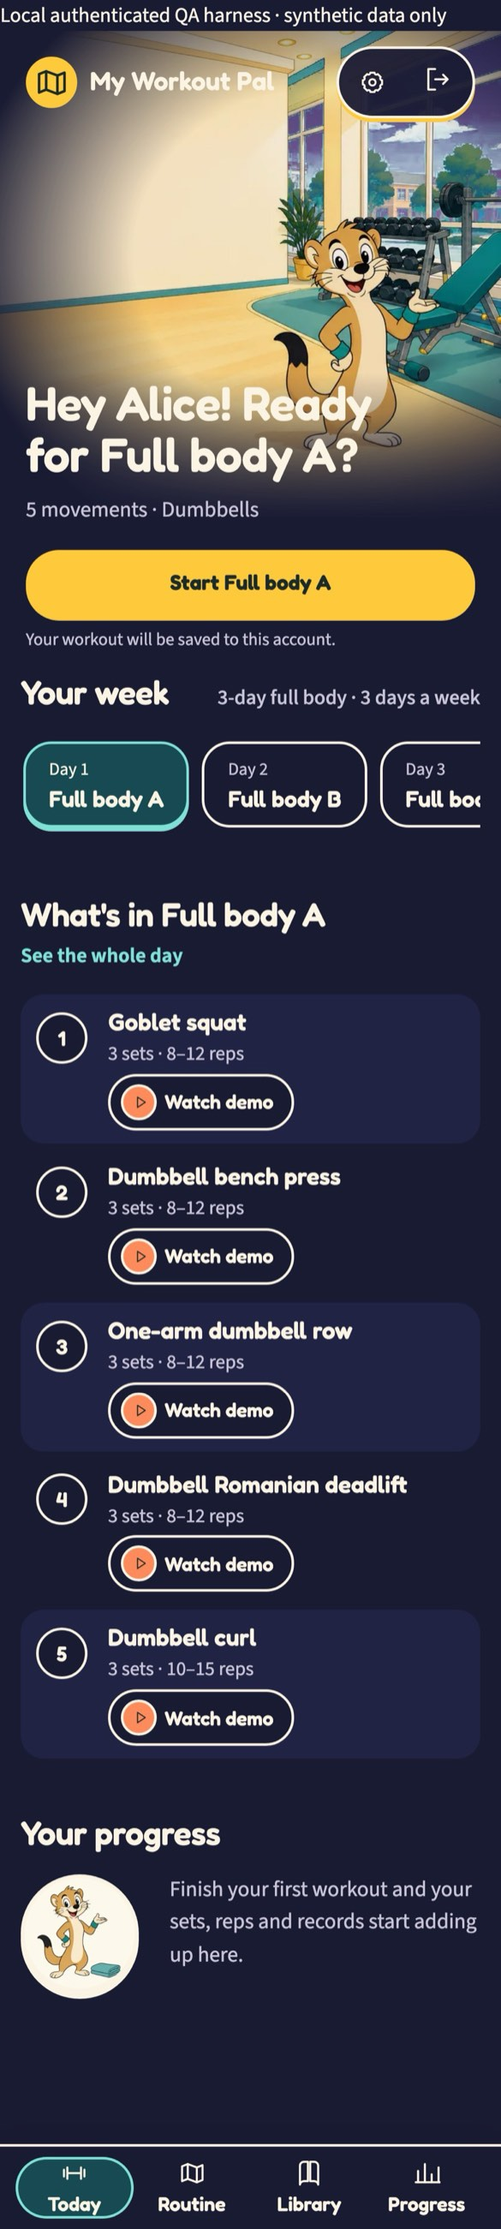
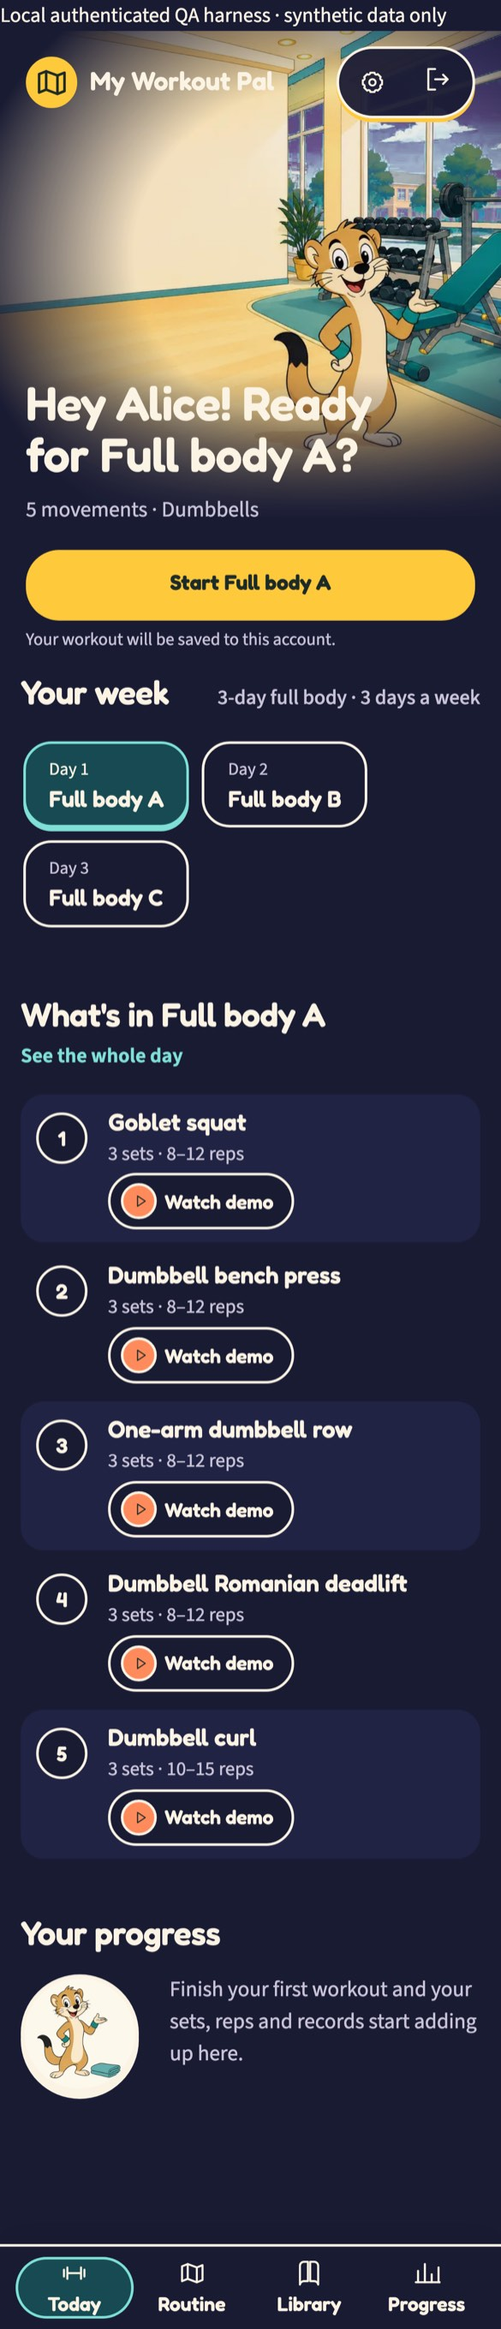
Record owner approval, final gates on 15eb950 and the wrapped day pills

diff --git a/docs/qa/latest/PLAYFUL-OVERHAUL-QA.html b/docs/qa/latest/PLAYFUL-OVERHAUL-QA.html
@@ -3,7 +3,7 @@
 <head>
   <meta charset="utf-8">
   <meta name="viewport" content="width=device-width, initial-scale=1">
[2 lines of base64/hex data omitted]
   <title>Playful companion overhaul: QA report · My Workout Pal docs</title>
   <style>
     :root { color-scheme: light dark; --paper:#f3eee3; --ink:#0d3138; --route:#d95c42; --rule:#a7aa9a; --code:#e6e0d5; }
@@ -28,9 +28,9 @@
 <body>
   <main>
 <h1>Playful companion overhaul: QA report</h1>
-<p>Branch <code>vishal/playful-companion-overhaul</code>, October 5, 2026. This report covers Phase 2 of <a href="../../plans/PLAYFUL-COMPANION-OVERHAUL.html">the overhaul plan</a>: the <em>Studio Pals</em> system on every screen, the new onboarding, the guest test drive, the navigation contract and the dark-mode rework the owner asked for. Nothing is merged or deployed. Merging waits for the owner&#39;s approval of the screenshots below.</p>
+<p>Branch <code>vishal/playful-companion-overhaul</code>, October 5, 2026. This report covers Phase 2 of <a href="../../plans/PLAYFUL-COMPANION-OVERHAUL.html">the overhaul plan</a>: the <em>Studio Pals</em> system on every screen, the new onboarding, the guest test drive, the navigation contract and the dark-mode rework the owner asked for. The owner approved the screenshots below on October 5 and asked for two changes: day pills that wrap and one name per equipment profile. Both are in <code>15eb950</code>, and every gate was rerun on that commit before merging.</p>
 <h2>1. Gates</h2>
-<p>Each gate ran on its own, one heavy process at a time, against application commit <code>9be1dae</code>. Later commits change only Markdown, generated HTML and screenshots.</p>
+<p>Each gate ran on its own, one heavy process at a time, against application commit <code>15eb950</code>. Later commits change only Markdown, generated HTML and screenshots.</p>
 <table>
 <thead>
 <tr>
@@ -47,7 +47,7 @@
 <tr>
 <td>Member browser suite</td>
 <td><code>pnpm test:e2e:authenticated</code></td>
-<td>Exit 0. <code>95 passed (10.8m)</code>, <code>13 skipped</code></td>
+<td>Exit 0. <code>95 passed (10.9m)</code>, <code>13 skipped</code></td>
 </tr>
 <tr>
 <td>Release browser suite</td>
@@ -57,7 +57,7 @@
 <tr>
 <td>Public acceptance (warmed dev server on 3118)</td>
 <td><code>PLAYWRIGHT_BASE_URL=http://127.0.0.1:3118 pnpm exec playwright test production-audit-public --project chromium-phone --project chromium-desktop</code></td>
-<td>Exit 0. <code>12 passed (25.5s)</code></td>
+<td>Exit 0. <code>12 passed (24.0s)</code></td>
 </tr>
 <tr>
 <td>Documentation parity</td>
@@ -70,7 +70,7 @@
 <ul>
 <li>Earlier full member runs on this branch failed while fixes were still landing. Those failures led to the fixes in section 9.</li>
 <li>One failure was <code>library-core-conditioning-expansion.spec.ts</code>, which timed out waiting for an aborted refresh response; see section 9.</li>
-<li>The first final-gate attempt of <code>pnpm verify</code> on <code>9be1dae</code> failed only at <code>docs:check</code>, on a git-ignored local ledger file (<code>docs/qa/runs/ledger-lead.md: HTML counterpart is stale</code>). After rebuilding the docs, the same commit passed <code>pnpm verify</code> as shown above.</li>
+<li>On the previous candidate (<code>9be1dae</code>), the first <code>pnpm verify</code> attempt failed only at <code>docs:check</code>, on a git-ignored local ledger file (<code>docs/qa/runs/ledger-lead.md: HTML counterpart is stale</code>). After rebuilding the docs, that commit passed every gate. The final commit passed every gate on its first run.</li>
 </ul>
 <h2>2. What a first-time visitor sees now</h2>
 <ul>
@@ -83,12 +83,12 @@
 <li>What are you training for?</li>
 <li>How much lifting have you done?</li>
 <li>How many days a week can you train?</li>
-<li>What do you have to work with?</li>
+<li>What do you have to work with? (&quot;Dumbbells&quot; or &quot;Barbell + rack&quot;, the same names as Settings and the editor)</li>
 <li>Here&#39;s your routine.</li>
 </ol>
 <p>The routine is built from the answers by <code>generateStarterRoutine</code> and lists demos that open in place. &quot;Prefer a different start?&quot; offers the five-day example or a blank start. After saving, a four-card tour (Today, logging, demos, progress) can be skipped at any point. Skipping or finishing it moves focus to Today&#39;s heading. Unverified members can answer and preview but not save.</p>
 </li>
-<li><p><strong>Today.</strong> The greeting names the next day (&quot;Hey Alice! Ready for Push?&quot;), followed by one big Start button, the week as day pills, the day&#39;s movements with in-place demos, and the progress glance. The chosen day is kept in the address.</p>
+<li><p><strong>Today.</strong> The greeting names the next day (&quot;Hey Alice! Ready for Push?&quot;), followed by one big Start button, the week as day pills that wrap onto more rows, the day&#39;s movements with in-place demos, and the progress glance. The chosen day is kept in the address.</p>
 </li>
 <li><p><strong>Finishing a workout.</strong> A celebration (&quot;Workout done! Nice work.&quot;) with a &quot;New record!&quot; ribbon when one was set. Focus moves to the heading.</p>
 </li>
@@ -2226,11 +2226,11 @@
 <li><strong>Pre-hydration input.</strong> The owner excluded this issue earlier, and it remains excluded.</li>
 <li><strong>Full-page screenshot artefacts.</strong> Stitched full-page screenshots painted fixed bars and the off-screen skip link mid-page. The capture tooling now grows the viewport instead. Real focus never landed on the skip link: logged focus before each capture was the expected heading or the page body.</li>
 </ul>
-<h2>11. Open questions</h2>
+<h2>11. Owner decisions (October 5)</h2>
 <ol>
-<li><strong>Approve the screenshots in section 7.</strong> Merging to <code>main</code> deploys to production.</li>
-<li><strong>Day pills on phones.</strong> Day names stay on one line, and a long week scrolls sideways. Would you prefer two rows?</li>
-<li><strong>Barbell profile name.</strong> Onboarding says &quot;A full gym with a barbell and rack&quot;, while Settings and the editor say &quot;Barbell + rack&quot;. Should both use one name?</li>
+<li><strong>Screenshots approved.</strong> The owner authorized the merge.</li>
+<li><strong>Day pills wrap</strong> onto more rows instead of scrolling sideways. The phone Today screenshots were recaptured to show it.</li>
+<li><strong>One name per equipment profile.</strong> Onboarding now says &quot;Dumbbells&quot; and &quot;Barbell + rack&quot;, as Settings and the editor do.</li>
 </ol>
 
   </main>

diff --git a/docs/context/STATUS.html b/docs/context/STATUS.html
@@ -3,7 +3,7 @@
 <head>
   <meta charset="utf-8">
   <meta name="viewport" content="width=device-width, initial-scale=1">
[2 lines of base64/hex data omitted]
   <title>Project status · My Workout Pal docs</title>
   <style>
     :root { color-scheme: light dark; --paper:#f3eee3; --ink:#0d3138; --route:#d95c42; --rule:#a7aa9a; --code:#e6e0d5; }
@@ -28,9 +28,9 @@
 <body>
   <main>
 <h1>Project status</h1>
-<h2>Playful companion overhaul: October 5, 2026 (Phase 2 complete, waiting for owner screenshot approval)</h2>
+<h2>Playful companion overhaul: October 5, 2026 (released)</h2>
 <p>The owner approved the Phase 1 direction, Fredoka, the onboarding questions, the artwork, deleting unused art and running migration <code>0008_training_profile</code>, and asked for a more integrated dark mode. Phase 2 rolled <em>Studio Pals</em> out to every public and member screen on branch <code>vishal/playful-companion-overhaul</code>. It adds the four-question onboarding with a generated routine and skippable tour, the guest test drive, the finish celebration, in-place demos and the back-navigation contract. Dark pages now use dusk recolours of every scene. See <a href="../qa/latest/PLAYFUL-OVERHAUL-QA.html">the QA report</a> for gates, the test-edit ledger, contrast, the navigation map and screenshots.</p>
-<p>Migration <code>0008</code> ran against production Neon after a private <code>pg_dump</code> backup; only the new empty table was added. The application change is <strong>not merged or deployed</strong>. <code>main</code> deploys to production automatically, so merging waits for all gates on the final commit, passing Vercel checks and the owner&#39;s approval of the final screenshots. The canonical checkout is the only worktree; temporary worktrees used to compare against <code>main</code> were removed.</p>
+<p>Migration <code>0008</code> ran against production Neon after a private <code>pg_dump</code> backup; only the new empty table was added. The owner approved the screenshots and asked for wrapping day pills and one name per equipment profile. Both shipped in <code>15eb950</code>, which passed every gate, and <a href="https://github.com/vdoshi96/My-Workout-Pal/pull/9">PR #9</a> merged into <code>main</code>, which deploys to production. The canonical checkout is the only worktree; temporary worktrees used to compare against <code>main</code> were removed.</p>
 <h2>Playful companion overhaul: October 4–5, 2026 (Phase 1, approved)</h2>
 <p>The owner used the post-audit app and said it fails at its job: it feels like a corporate deck of boxed cards, the art is an afterthought, white text on selected options is hard to read, onboarding teaches nothing, and drill-downs have no way back. <a href="../plans/PLAYFUL-COMPANION-OVERHAUL.html">The overhaul plan</a> records the Phase 0 audit (box inventory, measured contrast in every state, navigation map, onboarding walkthrough, art inventory) and the Phase 1 <em>Studio Pals</em> direction.</p>
 <p>Branch <code>vishal/playful-companion-overhaul</code> contains the plan, the screenshot and contrast capture tooling (<code>playwright.capture.config.ts</code>, <code>tests/capture/</code>, <code>node scripts/test-e2e-authenticated.mjs --capture</code>), and a prototype of <strong>only</strong> the landing page and member Today, with before and prototype screenshots under <code>docs/design/playful-overhaul/</code>. The prototype adds <code>@fontsource-variable/fredoka</code> (pending owner approval) and a scoped stylesheet <code>src/app/studio-pals.css</code> that Phase 2 folds into one system. Browser tests that check the retired landing and Today layouts are expected to fail on this branch; nothing is merged or deployed. At that checkpoint work stopped for owner approval, which arrived on October 5 (see above).</p>

diff --git a/docs/context/DECISIONS.html b/docs/context/DECISIONS.html
@@ -3,7 +3,7 @@
 <head>
   <meta charset="utf-8">
   <meta name="viewport" content="width=device-width, initial-scale=1">
[2 lines of base64/hex data omitted]
   <title>Decisions · My Workout Pal docs</title>
   <style>
     :root { color-scheme: light dark; --paper:#f3eee3; --ink:#0d3138; --route:#d95c42; --rule:#a7aa9a; --code:#e6e0d5; }
@@ -36,6 +36,7 @@
 <li><strong>Navigation.</strong> Drill-down links carry a validated <code>from</code> origin. <code>resolveBackTarget</code> accepts only allowlisted member and public origins, and <code>BackLink</code> returns to the exact anchor. Today keeps the selected day in the address, and the address is the source of truth when the page renders. Demos open in a native dialog that mounts the video only while open.</li>
 <li><strong>Focus after a screen is replaced.</strong> Finishing a workout and leaving the tour request focus for the next screen&#39;s heading (<code>ArrivalFocus</code>), because Next.js otherwise leaves focus on the document or the first focusable element.</li>
 <li><strong>Test drive.</strong> <code>/try</code> is a two-movement guest workout with approved demos. It saves nothing.</li>
+<li><strong>Owner review (October 5).</strong> Day pills wrap onto more rows rather than scrolling sideways. Onboarding names the equipment profiles &quot;Dumbbells&quot; and &quot;Barbell + rack&quot;, as everywhere else.</li>
 </ul>
 <h2>2026-10-04: Overhaul the look and onboarding toward a playful companion (proposed; approved October 5, see above)</h2>
 <p>The owner judges the app by a first-time visitor&#39;s reaction, not by passing gates. The proposed <em>Studio Pals</em> direction makes the illustrated studio the page itself, replaces decorative cards with whitespace and soft grouping, adds warm accents with state tokens that never put light text on a mid-tone, gives every drill-down a labelled back control that returns to the exact origin, opens demos in place, and replaces the one-set onboarding with goal, experience, schedule and equipment questions plus a skippable tour. Generated routines use only movements with approved demos and never prescribe load. New answers would live in an additive <code>user_training_profiles</code> table owned through the server session. See <a href="../plans/PLAYFUL-COMPANION-OVERHAUL.html">the overhaul plan</a>. Phase 2 starts only after owner approval.</p>

diff --git a/docs/plans/PLAYFUL-COMPANION-OVERHAUL.html b/docs/plans/PLAYFUL-COMPANION-OVERHAUL.html
@@ -3,7 +3,7 @@
 <head>
   <meta charset="utf-8">
   <meta name="viewport" content="width=device-width, initial-scale=1">
[2 lines of base64/hex data omitted]
   <title>Playful companion overhaul · My Workout Pal docs</title>
   <style>
     :root { color-scheme: light dark; --paper:#f3eee3; --ink:#0d3138; --route:#d95c42; --rule:#a7aa9a; --code:#e6e0d5; }
@@ -1617,7 +1617,7 @@
 <li><strong>&quot;What are you training for?&quot;</strong> Choose one: <em>Get stronger</em> · <em>Build muscle</em> · <em>Feel fitter overall</em> · <em>Lose fat</em> · <em>Train for a sport or event</em>.</li>
 <li><strong>&quot;How much lifting have you done?&quot;</strong> <em>I&#39;m new to this</em> (under 6 months) · <em>Some</em> (6 months to 2 years) · <em>Lots</em> (2+ years).</li>
 <li><strong>&quot;How many days a week can you train?&quot;</strong> 2 · 3 · 4 · 5. Helper: &quot;Pick what you can keep up. You can change it later.&quot;</li>
-<li><strong>&quot;What do you have to work with?&quot;</strong> <em>Dumbbells, a bench and bodyweight</em> · <em>A full gym with a barbell and rack</em>. (The existing two equipment profiles.)</li>
+<li><strong>&quot;What do you have to work with?&quot;</strong> <em>Dumbbells</em> · <em>Barbell + rack</em>, each with its description. These are the two existing equipment profiles, under the same names as in Settings and the editor; the owner asked for one name on October 5.</li>
 <li><strong>&quot;Here&#39;s your routine.&quot;</strong> A preview of the generated routine: its name (for example &quot;3-day full body&quot;), each day with its movements and set × rep targets, and a ▶ on each movement that has an approved demo. Actions: <strong>Save my routine</strong> · &quot;Start from a blank routine instead&quot;. Units default from the browser locale with a small &quot;Pounds · change&quot; toggle; the time zone is detected silently; motion follows the system. All three stay editable in Settings.</li>
 <li><strong>Tour (skippable, four short cards, &quot;Skip tour&quot; always visible):</strong><ul>
 <li><em>Today:</em> &quot;Your next workout is always here. Tap Start when you&#39;re ready.&quot;</li>

diff --git a/docs/context/LOG.html b/docs/context/LOG.html
@@ -3,7 +3,7 @@
 <head>
   <meta charset="utf-8">
   <meta name="viewport" content="width=device-width, initial-scale=1">
[2 lines of base64/hex data omitted]
   <title>Project log · My Workout Pal docs</title>
   <style>
     :root { color-scheme: light dark; --paper:#f3eee3; --ink:#0d3138; --route:#d95c42; --rule:#a7aa9a; --code:#e6e0d5; }
@@ -37,6 +37,7 @@
 <li>Built the four-question onboarding with a generated routine (<code>generateStarterRoutine</code>, test-first), the example and blank starts, a skippable four-card tour, Settings &gt; Your training, the <code>/try</code> test drive, the finish celebration with record ribbon, <code>BackLink</code> with <code>resolveBackTarget</code> (test-first), and in-place demo sheets.</li>
 <li>Fixed issues found by the browser suites: Today&#39;s day now follows the address, the tab bar reads the router&#39;s search params, headings take focus after a finish or the tour, the workout scene stays off the read-only screen, the phone header fits one row, and the editor no longer rewrites its address (that made Next.js remount it after every save).</li>
 <li>Updated pre-existing tests only where a layout was retired, logged in the <a href="../qa/latest/PLAYFUL-OVERHAUL-QA.html">QA report</a> ledger.</li>
+<li>The owner approved the screenshots, asked for day pills that wrap and one name per equipment profile (<code>15eb950</code>), and authorized the merge. All gates passed on <code>15eb950</code>: <code>pnpm verify</code>, 95 authenticated, 118 release and 12 public-acceptance passes, and 76 documentation files verified. PR #9 merged into <code>main</code>.</li>
 </ul>
 <h2>2026-10-05: Playful companion overhaul, Phase 0 audit and Phase 1 prototype</h2>
 <ul>

diff --git a/docs/qa/latest/PLAYFUL-OVERHAUL-QA.md b/docs/qa/latest/PLAYFUL-OVERHAUL-QA.md
@@ -1,17 +1,17 @@
 # Playful companion overhaul: QA report
 
-Branch `vishal/playful-companion-overhaul`, October 5, 2026. This report covers Phase 2 of [the overhaul plan](../../plans/PLAYFUL-COMPANION-OVERHAUL.md): the *Studio Pals* system on every screen, the new onboarding, the guest test drive, the navigation contract and the dark-mode rework the owner asked for. Nothing is merged or deployed. Merging waits for the owner's approval of the screenshots below.
+Branch `vishal/playful-companion-overhaul`, October 5, 2026. This report covers Phase 2 of [the overhaul plan](../../plans/PLAYFUL-COMPANION-OVERHAUL.md): the *Studio Pals* system on every screen, the new onboarding, the guest test drive, the navigation contract and the dark-mode rework the owner asked for. The owner approved the screenshots below on October 5 and asked for two changes: day pills that wrap and one name per equipment profile. Both are in `15eb950`, and every gate was rerun on that commit before merging.
 
 ## 1. Gates
 
-Each gate ran on its own, one heavy process at a time, against application commit `9be1dae`. Later commits change only Markdown, generated HTML and screenshots.
+Each gate ran on its own, one heavy process at a time, against application commit `15eb950`. Later commits change only Markdown, generated HTML and screenshots.
 
 | Gate | Command | Result (exact output) |
 |---|---|---|
 | Verify | `pnpm verify` | Exit 0. `Tests  1524 passed (1524)`, `Tests  38 passed (38)`, `seed:check passed: 27 required variation(s) have exactly two approved videos.`, `Verified generated service worker.`, `Verified 76 documentation files.`, `Production route boundary verified (48 App Router entries).` |
-| Member browser suite | `pnpm test:e2e:authenticated` | Exit 0. `95 passed (10.8m)`, `13 skipped` |
+| Member browser suite | `pnpm test:e2e:authenticated` | Exit 0. `95 passed (10.9m)`, `13 skipped` |
 | Release browser suite | `pnpm test:e2e:release` | Exit 0. `118 passed (2.0m)`, `86 skipped` |
-| Public acceptance (warmed dev server on 3118) | `PLAYWRIGHT_BASE_URL=http://127.0.0.1:3118 pnpm exec playwright test production-audit-public --project chromium-phone --project chromium-desktop` | Exit 0. `12 passed (25.5s)` |
+| Public acceptance (warmed dev server on 3118) | `PLAYWRIGHT_BASE_URL=http://127.0.0.1:3118 pnpm exec playwright test production-audit-public --project chromium-phone --project chromium-desktop` | Exit 0. `12 passed (24.0s)` |
 | Documentation parity | `pnpm docs:build`, then `pnpm docs:check` | Exit 0. `Verified 76 documentation files.` |
 
 Skipped tests are the suites' existing per-project skips (for example, headed native zoom and single-engine evidence). No test was skipped, retried or given a longer timeout by this work.
@@ -20,7 +20,7 @@ Skipped tests are the suites' existing per-project skips (for example, headed na
 
 - Earlier full member runs on this branch failed while fixes were still landing. Those failures led to the fixes in section 9.
 - One failure was `library-core-conditioning-expansion.spec.ts`, which timed out waiting for an aborted refresh response; see section 9.
-- The first final-gate attempt of `pnpm verify` on `9be1dae` failed only at `docs:check`, on a git-ignored local ledger file (`docs/qa/runs/ledger-lead.md: HTML counterpart is stale`). After rebuilding the docs, the same commit passed `pnpm verify` as shown above.
+- On the previous candidate (`9be1dae`), the first `pnpm verify` attempt failed only at `docs:check`, on a git-ignored local ledger file (`docs/qa/runs/ledger-lead.md: HTML counterpart is stale`). After rebuilding the docs, that commit passed every gate. The final commit passed every gate on its first run.
 
 ## 2. What a first-time visitor sees now
 
@@ -30,11 +30,11 @@ Skipped tests are the suites' existing per-project skips (for example, headed na
   1. What are you training for?
   2. How much lifting have you done?
   3. How many days a week can you train?
-  4. What do you have to work with?
+  4. What do you have to work with? ("Dumbbells" or "Barbell + rack", the same names as Settings and the editor)
   5. Here's your routine.
 
   The routine is built from the answers by `generateStarterRoutine` and lists demos that open in place. "Prefer a different start?" offers the five-day example or a blank start. After saving, a four-card tour (Today, logging, demos, progress) can be skipped at any point. Skipping or finishing it moves focus to Today's heading. Unverified members can answer and preview but not save.
-- **Today.** The greeting names the next day ("Hey Alice! Ready for Push?"), followed by one big Start button, the week as day pills, the day's movements with in-place demos, and the progress glance. The chosen day is kept in the address.
+- **Today.** The greeting names the next day ("Hey Alice! Ready for Push?"), followed by one big Start button, the week as day pills that wrap onto more rows, the day's movements with in-place demos, and the progress glance. The chosen day is kept in the address.
 - **Finishing a workout.** A celebration ("Workout done! Nice work.") with a "New record!" ribbon when one was set. Focus moves to the heading.
 - **Dark mode.** Every scene has a dusk recolour, and the scene is masked into the indigo night canvas instead of dimming daylight art. The owner asked for this.
 
@@ -528,8 +528,8 @@ Overlap checks of ≤ 1 px between the retired corner companion and page control
 - **Pre-hydration input.** The owner excluded this issue earlier, and it remains excluded.
 - **Full-page screenshot artefacts.** Stitched full-page screenshots painted fixed bars and the off-screen skip link mid-page. The capture tooling now grows the viewport instead. Real focus never landed on the skip link: logged focus before each capture was the expected heading or the page body.
 
-## 11. Open questions
+## 11. Owner decisions (October 5)
 
-1. **Approve the screenshots in section 7.** Merging to `main` deploys to production.
-2. **Day pills on phones.** Day names stay on one line, and a long week scrolls sideways. Would you prefer two rows?
-3. **Barbell profile name.** Onboarding says "A full gym with a barbell and rack", while Settings and the editor say "Barbell + rack". Should both use one name?
+1. **Screenshots approved.** The owner authorized the merge.
+2. **Day pills wrap** onto more rows instead of scrolling sideways. The phone Today screenshots were recaptured to show it.
+3. **One name per equipment profile.** Onboarding now says "Dumbbells" and "Barbell + rack", as Settings and the editor do.

diff --git a/docs/context/STATUS.md b/docs/context/STATUS.md
@@ -1,10 +1,10 @@
 # Project status
 
-## Playful companion overhaul: October 5, 2026 (Phase 2 complete, waiting for owner screenshot approval)
+## Playful companion overhaul: October 5, 2026 (released)
 
 The owner approved the Phase 1 direction, Fredoka, the onboarding questions, the artwork, deleting unused art and running migration `0008_training_profile`, and asked for a more integrated dark mode. Phase 2 rolled *Studio Pals* out to every public and member screen on branch `vishal/playful-companion-overhaul`. It adds the four-question onboarding with a generated routine and skippable tour, the guest test drive, the finish celebration, in-place demos and the back-navigation contract. Dark pages now use dusk recolours of every scene. See [the QA report](../qa/latest/PLAYFUL-OVERHAUL-QA.md) for gates, the test-edit ledger, contrast, the navigation map and screenshots.
 
-Migration `0008` ran against production Neon after a private `pg_dump` backup; only the new empty table was added. The application change is **not merged or deployed**. `main` deploys to production automatically, so merging waits for all gates on the final commit, passing Vercel checks and the owner's approval of the final screenshots. The canonical checkout is the only worktree; temporary worktrees used to compare against `main` were removed.
+Migration `0008` ran against production Neon after a private `pg_dump` backup; only the new empty table was added. The owner approved the screenshots and asked for wrapping day pills and one name per equipment profile. Both shipped in `15eb950`, which passed every gate, and [PR #9](https://github.com/vdoshi96/My-Workout-Pal/pull/9) merged into `main`, which deploys to production. The canonical checkout is the only worktree; temporary worktrees used to compare against `main` were removed.
 
 ## Playful companion overhaul: October 4–5, 2026 (Phase 1, approved)
 

diff --git a/docs/plans/PLAYFUL-COMPANION-OVERHAUL.md b/docs/plans/PLAYFUL-COMPANION-OVERHAUL.md
@@ -420,7 +420,7 @@ The person should leave with a routine that fits them and a picture of the four 
 1. **"What are you training for?"** Choose one: *Get stronger* · *Build muscle* · *Feel fitter overall* · *Lose fat* · *Train for a sport or event*.
 2. **"How much lifting have you done?"** *I'm new to this* (under 6 months) · *Some* (6 months to 2 years) · *Lots* (2+ years).
 3. **"How many days a week can you train?"** 2 · 3 · 4 · 5. Helper: "Pick what you can keep up. You can change it later."
-4. **"What do you have to work with?"** *Dumbbells, a bench and bodyweight* · *A full gym with a barbell and rack*. (The existing two equipment profiles.)
+4. **"What do you have to work with?"** *Dumbbells* · *Barbell + rack*, each with its description. These are the two existing equipment profiles, under the same names as in Settings and the editor; the owner asked for one name on October 5.
 5. **"Here's your routine."** A preview of the generated routine: its name (for example "3-day full body"), each day with its movements and set × rep targets, and a ▶ on each movement that has an approved demo. Actions: **Save my routine** · "Start from a blank routine instead". Units default from the browser locale with a small "Pounds · change" toggle; the time zone is detected silently; motion follows the system. All three stay editable in Settings.
 6. **Tour (skippable, four short cards, "Skip tour" always visible):**
    - *Today:* "Your next workout is always here. Tap Start when you're ready."

diff --git a/docs/context/LOG.md b/docs/context/LOG.md
@@ -9,6 +9,7 @@
 - Built the four-question onboarding with a generated routine (`generateStarterRoutine`, test-first), the example and blank starts, a skippable four-card tour, Settings > Your training, the `/try` test drive, the finish celebration with record ribbon, `BackLink` with `resolveBackTarget` (test-first), and in-place demo sheets.
 - Fixed issues found by the browser suites: Today's day now follows the address, the tab bar reads the router's search params, headings take focus after a finish or the tour, the workout scene stays off the read-only screen, the phone header fits one row, and the editor no longer rewrites its address (that made Next.js remount it after every save).
 - Updated pre-existing tests only where a layout was retired, logged in the [QA report](../qa/latest/PLAYFUL-OVERHAUL-QA.md) ledger.
+- The owner approved the screenshots, asked for day pills that wrap and one name per equipment profile (`15eb950`), and authorized the merge. All gates passed on `15eb950`: `pnpm verify`, 95 authenticated, 118 release and 12 public-acceptance passes, and 76 documentation files verified. PR #9 merged into `main`.
 
 ## 2026-10-05: Playful companion overhaul, Phase 0 audit and Phase 1 prototype
 

diff --git a/docs/context/DECISIONS.md b/docs/context/DECISIONS.md
@@ -9,6 +9,7 @@ The owner approved the *Studio Pals* direction, the Fredoka display font, the fo
 - **Navigation.** Drill-down links carry a validated `from` origin. `resolveBackTarget` accepts only allowlisted member and public origins, and `BackLink` returns to the exact anchor. Today keeps the selected day in the address, and the address is the source of truth when the page renders. Demos open in a native dialog that mounts the video only while open.
 - **Focus after a screen is replaced.** Finishing a workout and leaving the tour request focus for the next screen's heading (`ArrivalFocus`), because Next.js otherwise leaves focus on the document or the first focusable element.
 - **Test drive.** `/try` is a two-movement guest workout with approved demos. It saves nothing.
+- **Owner review (October 5).** Day pills wrap onto more rows rather than scrolling sideways. Onboarding names the equipment profiles "Dumbbells" and "Barbell + rack", as everywhere else.
 
 ## 2026-10-04: Overhaul the look and onboarding toward a playful companion (proposed; approved October 5, see above)
 
